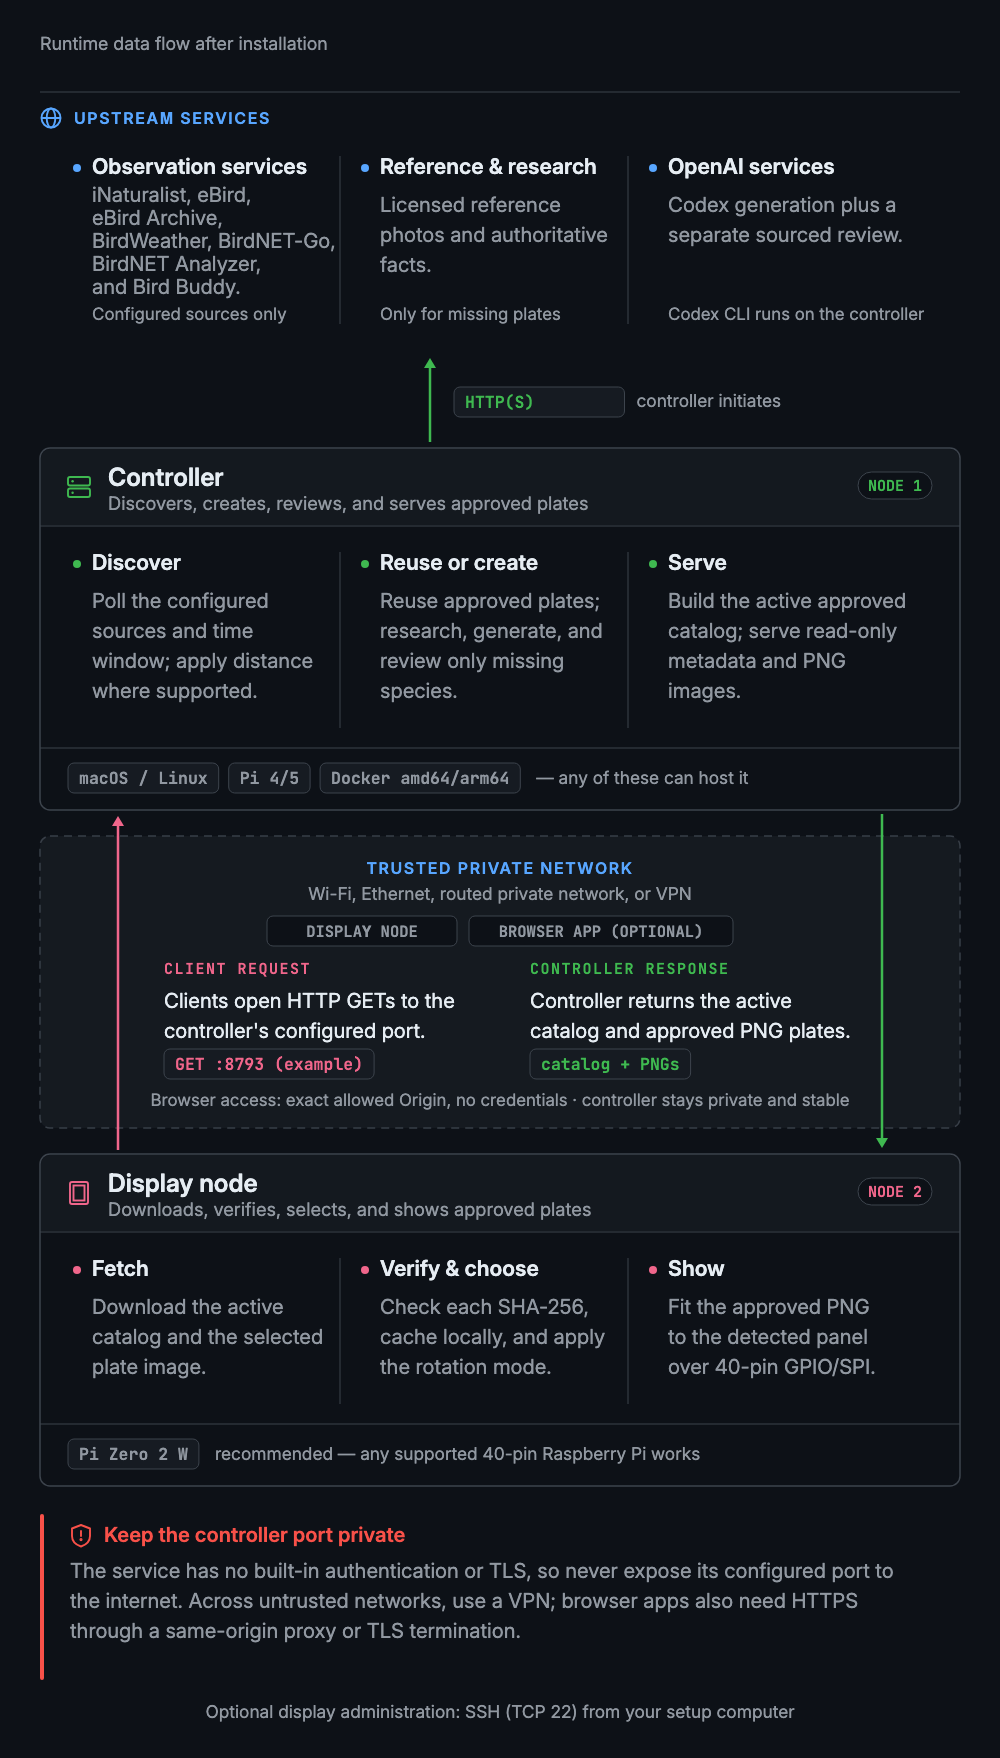
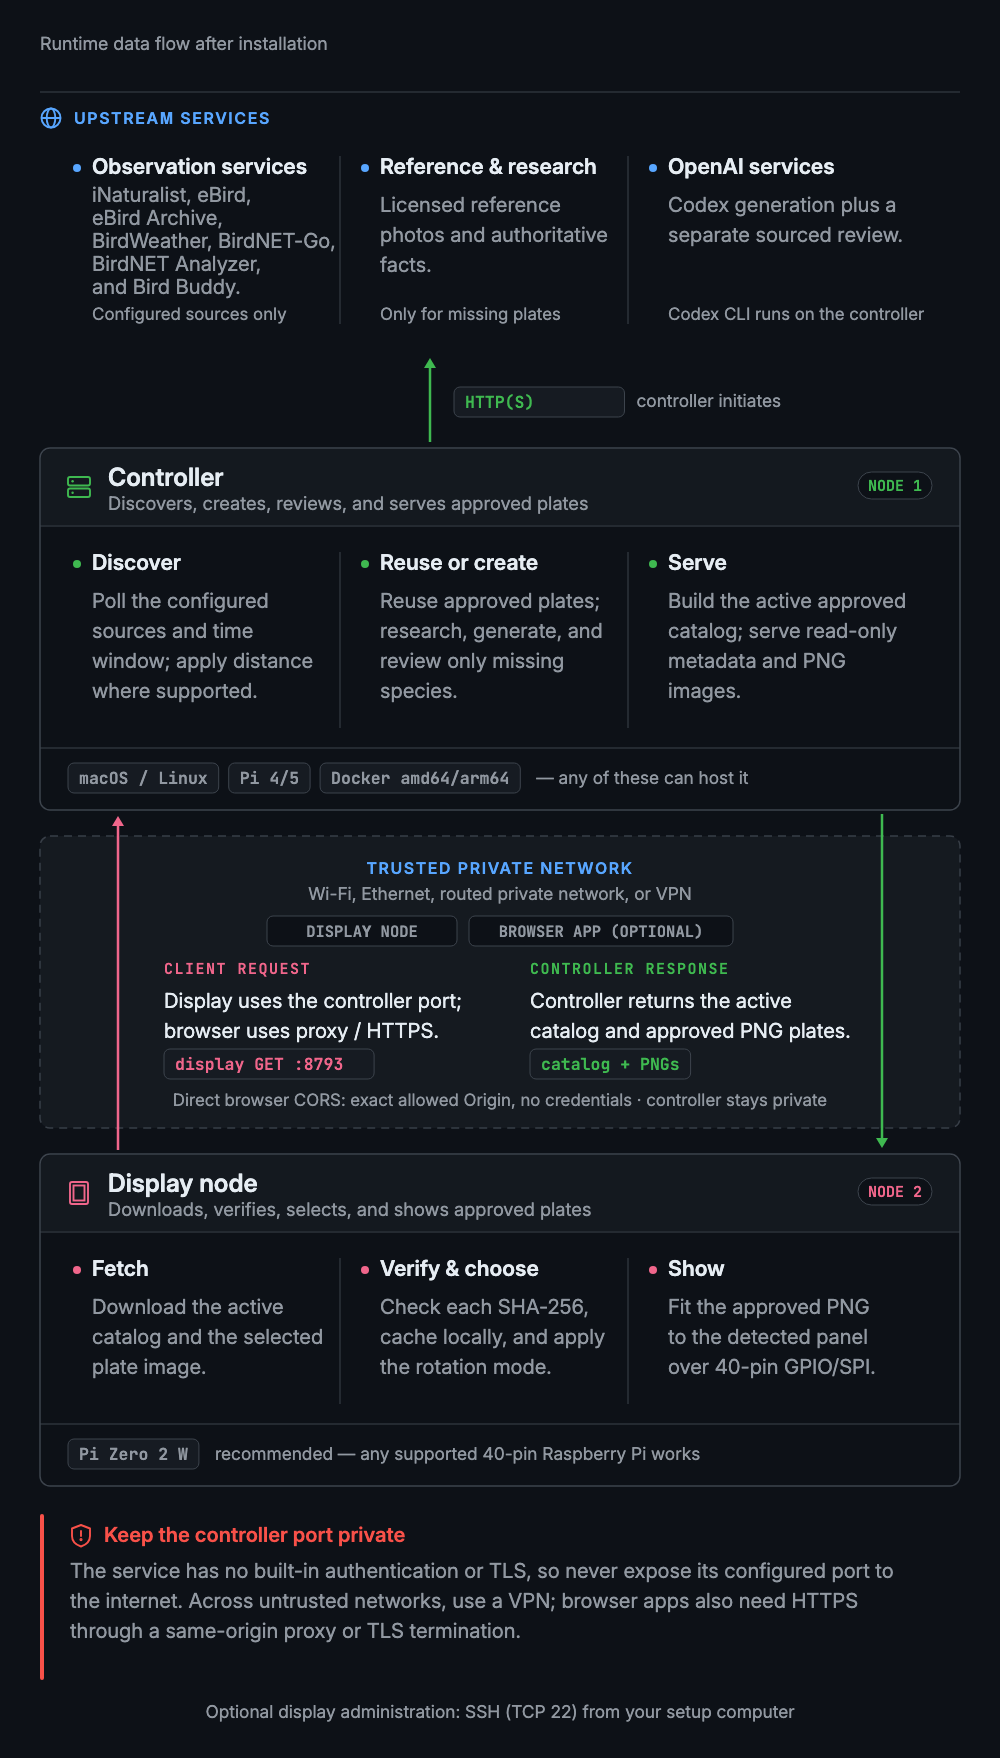
Correct browser endpoint guidance

Changed region(s): [[0.155, 0.5529, 0.527, 0.6451], [0.682, 0.6143, 0.837, 0.6451], [0.558, 0.6143, 0.651, 0.6451]]

diff --git a/docs/installation.md b/docs/installation.md
@@ -69,7 +69,7 @@ CLI. The display requires `git`, `rsync`, and Pimoroni's Python environment.
 | Controller | Internet HTTPS (TCP 443) | Codex, internet-backed observation services and geocoder, licensed references, and configured research sources |
 | Controller | BirdNET-Go HTTP(S) endpoint | Read-only summaries from an explicitly configured self-hosted station |
 | Display node | Configured controller TCP port (8793 in the supplied example) | Read-only health, catalog, and image downloads |
-| Trusted browser application | Configured controller TCP port (8793 in the supplied example) | Optional read-only catalog and image downloads from an allowed exact origin |
+| Trusted browser application | Application's same-origin proxy or an HTTPS endpoint that terminates TLS before the controller | Optional read-only catalog and image downloads; direct controller HTTP works only for an HTTP application on the trusted network |
 | Setup computer | Display node SSH (TCP 22) | Installation, updates, and troubleshooting |
 
 The two computers do not have to share a subnet. They must be routable to each

diff --git a/README.md b/README.md
@@ -57,8 +57,10 @@ application read the active catalog and images, add its exact origin:
 cors_allowed_origins = ["https://frame.example.test"]
 ```
 
-This does not add authentication or make the controller safe to expose to the
-internet. See
+An HTTPS application must use a same-origin application proxy or reach the
+controller through an HTTPS endpoint. A VPN alone does not prevent mixed
+content. This setting does not add authentication or make the controller safe
+to expose to the internet. See
 [Browser applications](docs/installation.md#browser-applications) for the
 configuration and network limits.
 

diff --git a/docs/architecture.md b/docs/architecture.md
@@ -13,7 +13,7 @@ flowchart LR
     A --> C
     D["Display node"] -- "GET catalog and images" --> C
     C -- "Approved plates" --> D
-    B["Trusted browser app (optional)"] -- "GET catalog and images (allowed Origin)" --> C
+    B["Trusted browser app (optional)"] -- "GET via proxy or HTTPS endpoint" --> C
     C -- "Approved catalog" --> B
     A -. "optional catalog-only PR" .-> P["Public catalog"]
 ```
